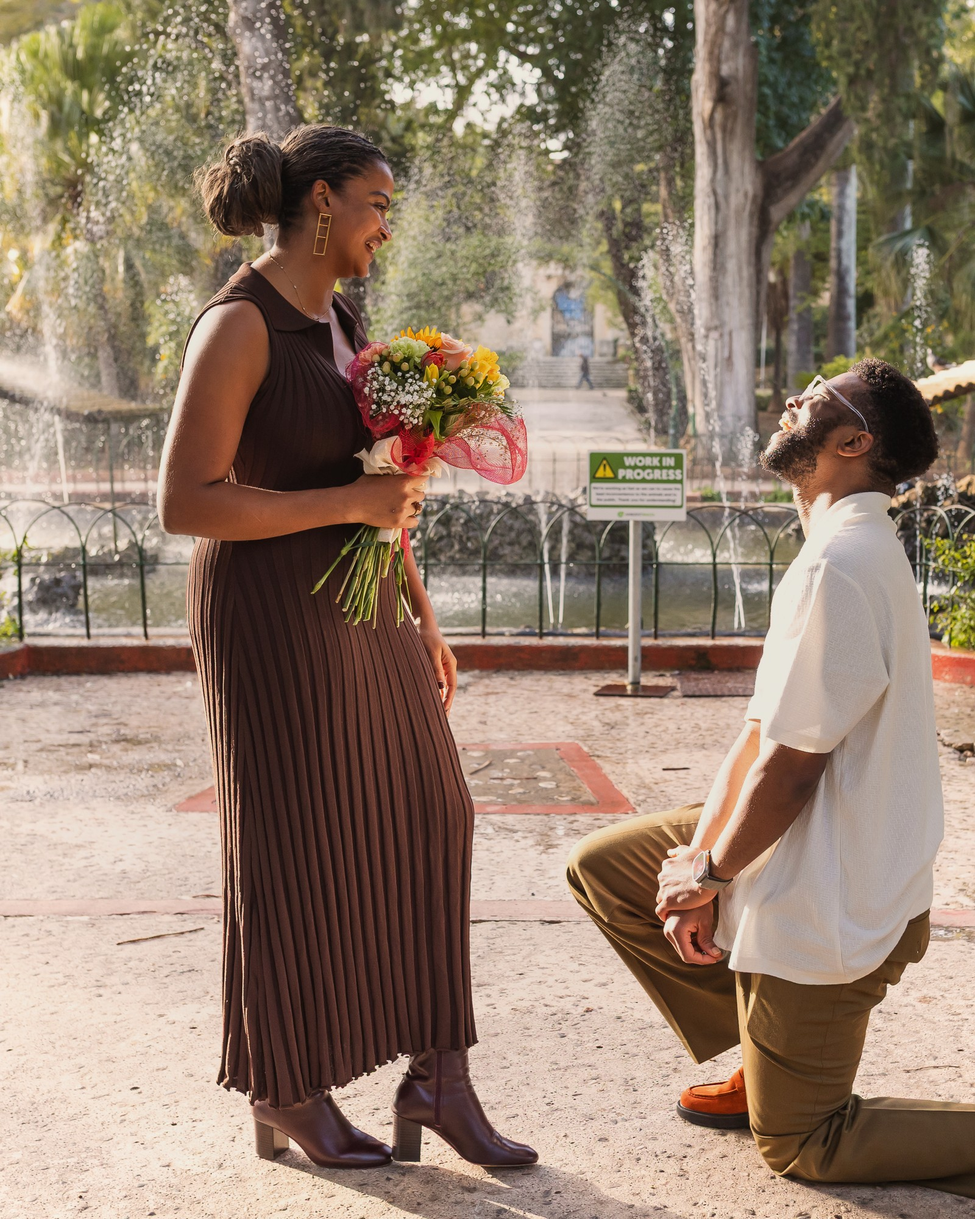
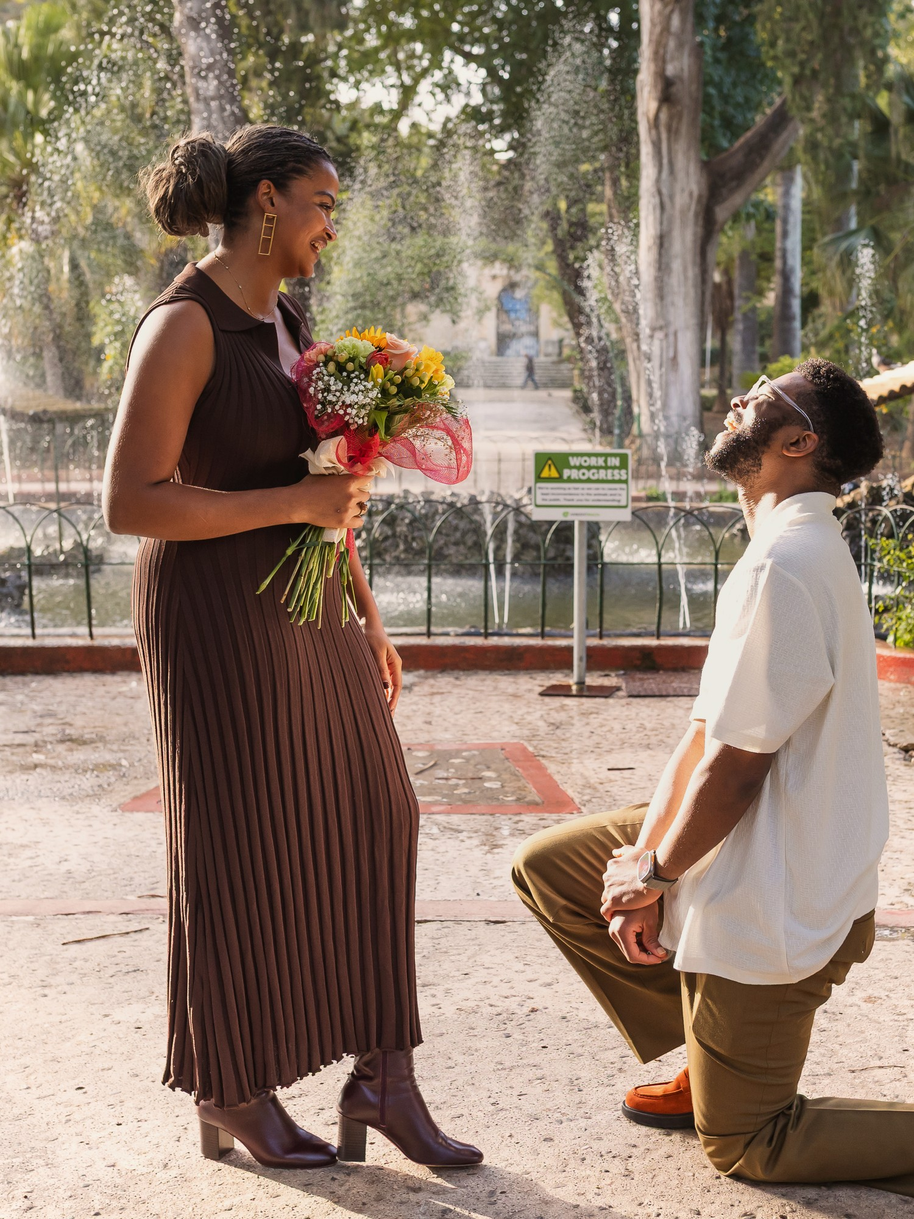
Fix hero framing, deepen style CTA, add soft 3D motion
Rebuild the proposal hero with a wider crop and upward bias so both
faces stay visible on mobile, make What to wear inspiration a clear
gold button, and add a subtle perspective drift on the hero media.

diff --git a/src/index.css b/src/index.css
@@ -179,6 +179,7 @@ textarea {
   align-items: end;
   color: var(--white);
   isolation: isolate;
+  perspective: 1600px;
 }
 
 .hero__media {
@@ -186,15 +187,39 @@ textarea {
   inset: 0;
   z-index: -2;
   overflow: hidden;
+  transform-style: preserve-3d;
+}
+
+.hero__media::before {
+  content: "";
+  position: absolute;
+  inset: -4%;
+  z-index: 0;
+  background:
+    radial-gradient(circle at 20% 20%, rgba(232, 213, 168, 0.18), transparent 42%),
+    radial-gradient(circle at 80% 30%, rgba(139, 69, 80, 0.2), transparent 45%);
+  pointer-events: none;
+  transform: translateZ(40px);
+  animation: float-drift 10s var(--ease) infinite alternate;
 }
 
 .hero__media img {
   width: 100%;
   height: 100%;
   object-fit: cover;
-  object-position: 48% 42%;
-  transform: scale(1.06);
-  animation: hero-drift 18s var(--ease) infinite alternate;
+  /* Bias up so both faces stay in frame on tall phones */
+  object-position: 46% 28%;
+  transform: scale(1.12) translate3d(0, 0, 0) rotateX(1.4deg);
+  transform-origin: center 35%;
+  animation: hero-drift-3d 18s var(--ease) infinite alternate;
+  filter: saturate(1.04) contrast(1.02);
+}
+
+@media (min-width: 860px) {
+  .hero__media img {
+    object-position: 45% 32%;
+    transform: scale(1.08) translate3d(0, 0, 0) rotateX(1.1deg);
+  }
 }
 
 .hero__veil {
@@ -202,7 +227,8 @@ textarea {
   inset: 0;
   z-index: -1;
   background:
-    linear-gradient(180deg, rgba(74, 32, 40, 0.22) 0%, rgba(74, 32, 40, 0.3) 42%, rgba(42, 24, 32, 0.82) 100%);
+    linear-gradient(180deg, rgba(42, 24, 32, 0.18) 0%, rgba(74, 32, 40, 0.22) 38%, rgba(42, 24, 32, 0.84) 100%);
+  box-shadow: inset 0 0 120px rgba(42, 24, 32, 0.28);
 }
 
 .hero__content {
@@ -663,25 +689,38 @@ textarea {
 }
 
 .style-inspire {
-  margin-top: 1.25rem;
+  margin-top: 1.5rem;
 }
 
 .style-inspire__trigger {
   appearance: none;
-  border: 0;
-  background: transparent;
-  padding: 0;
+  display: inline-flex;
+  align-items: center;
+  justify-content: center;
+  min-height: 2.85rem;
+  padding: 0.7rem 1.35rem;
+  border: 1px solid rgba(176, 141, 87, 0.55);
+  border-radius: 0.2rem;
+  background: linear-gradient(180deg, #e8d5a8 0%, #b08d57 100%);
   color: var(--burgundy);
   font: inherit;
-  font-size: 0.98rem;
-  letter-spacing: 0.01em;
-  text-decoration: underline;
-  text-underline-offset: 0.22em;
+  font-size: 0.92rem;
+  font-weight: 600;
+  letter-spacing: 0.02em;
   cursor: pointer;
+  box-shadow: 0 8px 22px rgba(74, 32, 40, 0.14);
 }
 
 .style-inspire__trigger:hover {
-  color: var(--burgundy-mid);
+  background: linear-gradient(180deg, #f0e2b8 0%, #c4a066 100%);
+}
+
+.style-inspire__hint {
+  margin: 0.65rem 0 0;
+  max-width: 36ch;
+  color: var(--ink-soft);
+  font-size: 0.92rem;
+  line-height: 1.5;
 }
 
 .style-inspire__overlay {
@@ -1436,6 +1475,15 @@ textarea {
   }
 }
 
+@keyframes hero-drift-3d {
+  from {
+    transform: scale(1.1) translate3d(0, 0, 0) rotateX(1.2deg) rotateY(-0.8deg);
+  }
+  to {
+    transform: scale(1.16) translate3d(0, -1.2%, 12px) rotateX(2deg) rotateY(0.9deg);
+  }
+}
+
 @keyframes soft-zoom {
   from {
     transform: scale(1);
@@ -1451,6 +1499,7 @@ textarea {
   }
 
   .hero__media img,
+  .hero__media::before,
   .story__media img,
   .hero__content,
   .story__copy,
@@ -1459,6 +1508,10 @@ textarea {
   .float-accent,
   .invite-box {
     animation: none !important;
+  }
+
+  .hero__media img {
+    transform: scale(1.06);
   }
 
   .invite-box--open .invite-box__lid {

diff --git a/src/App.tsx b/src/App.tsx
@@ -52,8 +52,8 @@ export default function App() {
               <a className="btn btn--solid" href="#day">
                 See the day
               </a>
-              <a className="btn btn--ghost" href="#moments">
-                Our story in photos
+              <a className="btn btn--ghost" href="#style">
+                What to wear
               </a>
             </div>
           </div>
@@ -139,7 +139,9 @@ export default function App() {
                   </li>
                 ))}
               </ul>
-              <StyleInspiration />
+              <div id="style">
+                <StyleInspiration />
+              </div>
               <Countdown />
             </Reveal>
             <ol className="timeline">

diff --git a/src/components/StyleInspiration.tsx b/src/components/StyleInspiration.tsx
@@ -45,6 +45,9 @@ export function StyleInspiration() {
       >
         Need inspiration on what to wear?
       </button>
+      <p className="style-inspire__hint">
+        Open look ideas for her or for him.
+      </p>
 
       {open ? (
         <div className="style-inspire__overlay" role="presentation" onClick={close}>
